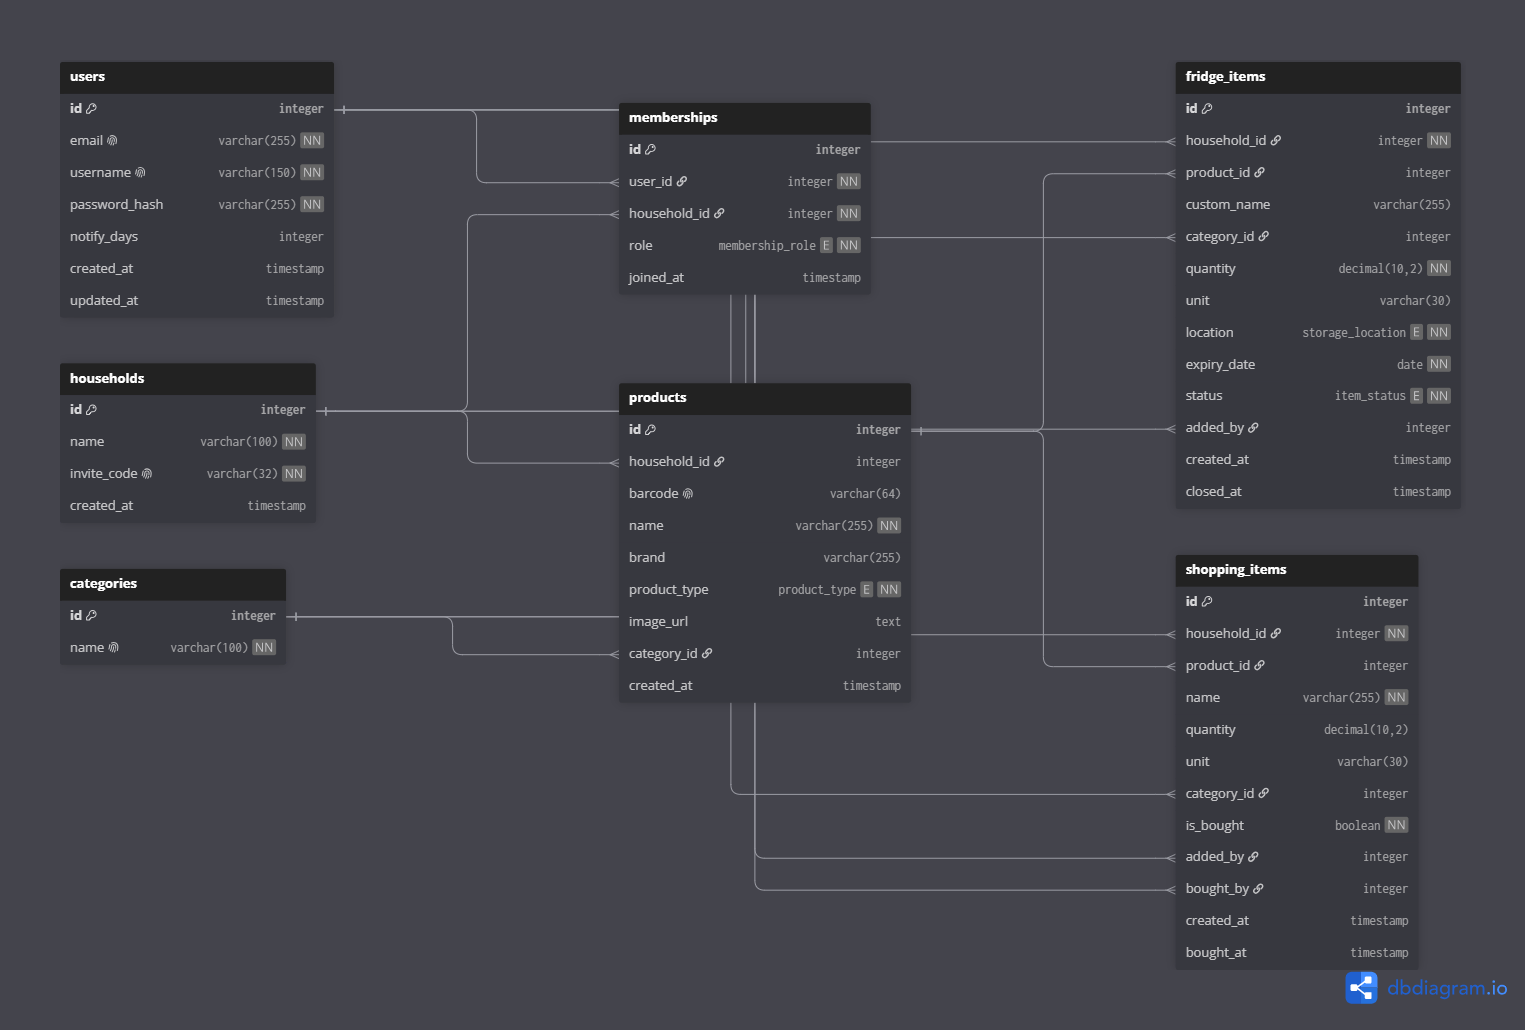
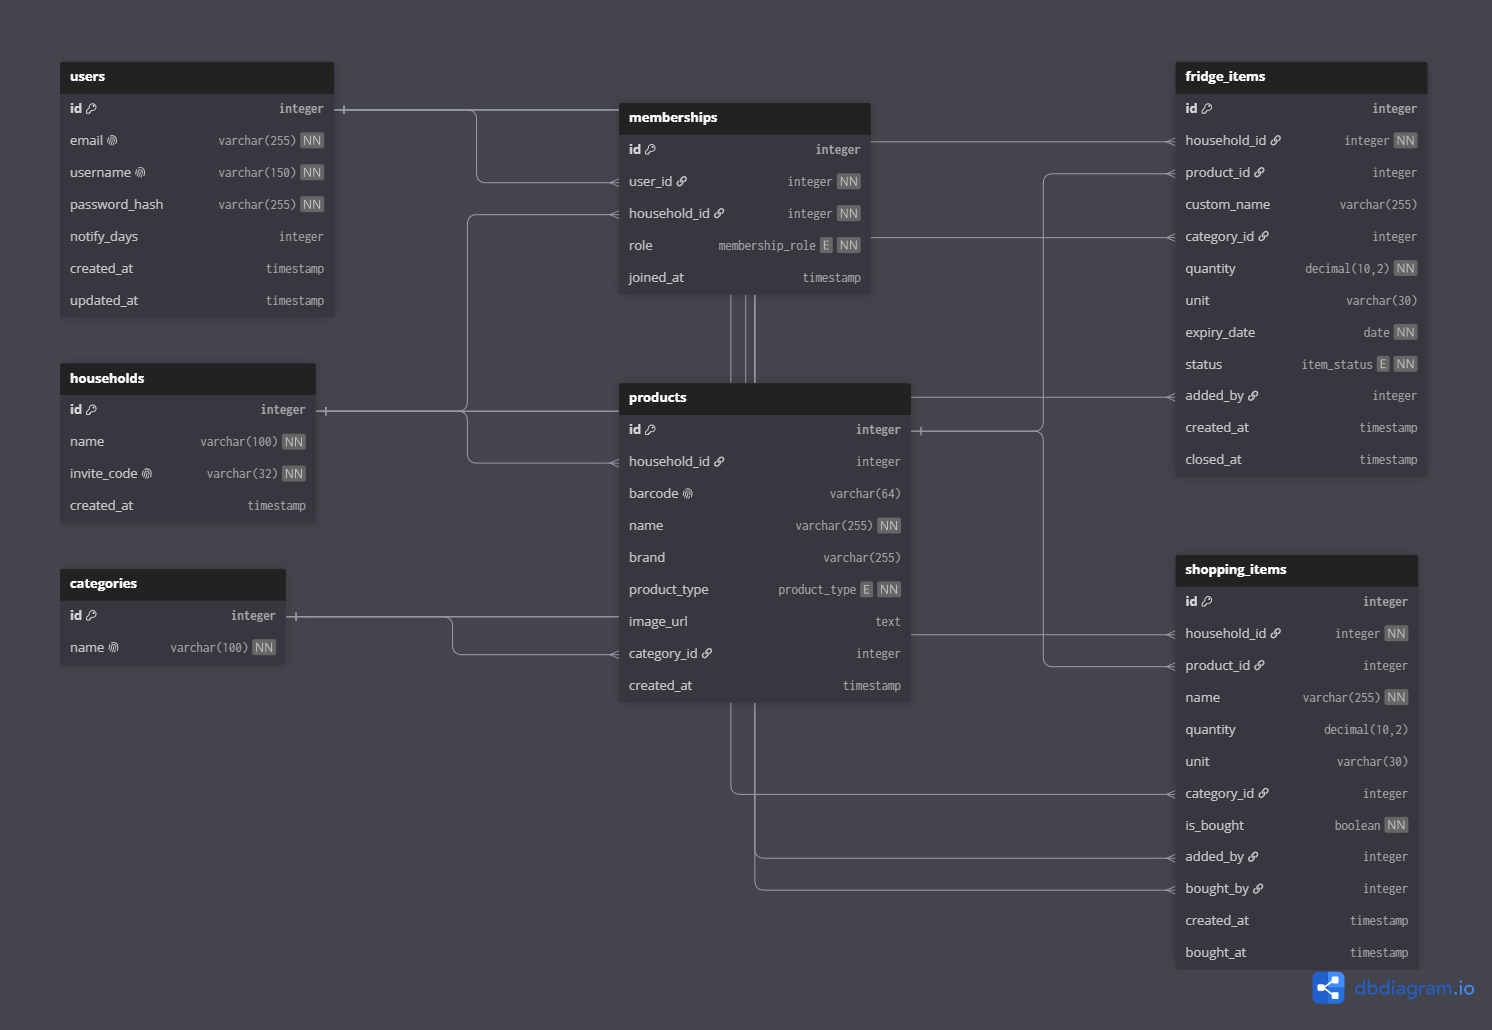
Update diagram and readme

diff --git a/README.md b/README.md
@@ -23,14 +23,14 @@ The data model is centered around the `Household` entity. All fridge inventory i
 ### Key Architectural Decisions
 
 1. **Data Isolation:** `FridgeItem` and `ShoppingItem` are strictly bound to `Household`. Members only access resources belonging to their active household.
-2. **Global Catalog vs Homemade Dishes:**
-   - The `Product` table serves as a global catalog and cache for Open Food Facts barcode scans.
-   - For homemade meals (e.g., soups, leftovers) or custom items added manually, `product_id` in `FridgeItem` remains `NULL` while the item details are stored directly in `custom_name` and `category_id`. This prevents polluting the shared global catalog with one-off entries.
-3. **Food Waste Tracking (US-21):**
-   - Items are never deleted upon consumption or disposal. Instead, their `status` is transitioned to `eaten` or `wasted`, and `closed_at` is recorded to generate waste and consumption analytics.
+2. **Catalog and Custom Dishes (`Product` & `FridgeItem`):**
+   - The `Product` table holds both global store-bought items (cached from Open Food Facts, where `household_id` is `NULL`) and household-specific custom dishes (where `household_id` is set, categorized via `product_type`).
+   - For quick manual additions without catalog indexing, `FridgeItem` also supports a direct fallback via `custom_name` and `category_id` (leaving `product_id` as `NULL`).
+3. **Food Waste Tracking:**
+   - Items are never deleted upon consumption or disposal. Instead, their `status` transitions to `eaten` or `wasted`, and `closed_at` is recorded to generate consumption and waste analytics.
 4. **Performance & Constraints:**
-   - A composite index on `(household_id, status, expiry_date)` enables fast sorting and filtering of active items expiring soonest.
-   - A unique constraint on `(user_id, household_id)` inside `Membership` guarantees a user cannot join the same household multiple times.
+   - A composite index on `(household_id, status, expiry_date)` enables fast querying and sorting of active items ordered by upcoming expiration dates.
+   - A unique constraint on `(user_id, household_id)` inside `Membership` ensures a user cannot join the same household multiple times.
 
 ---
 
